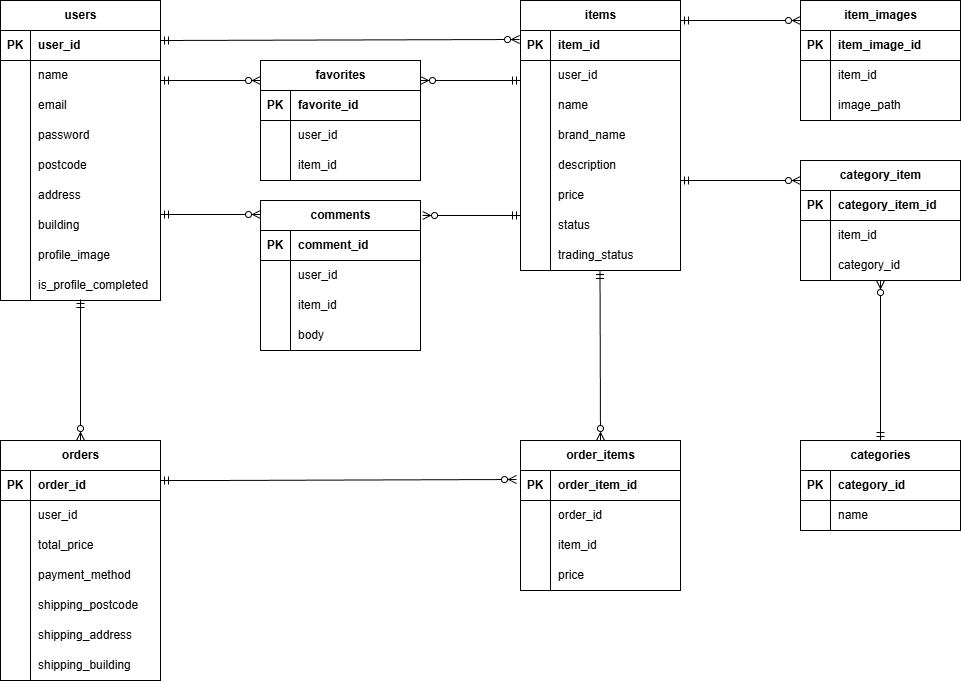
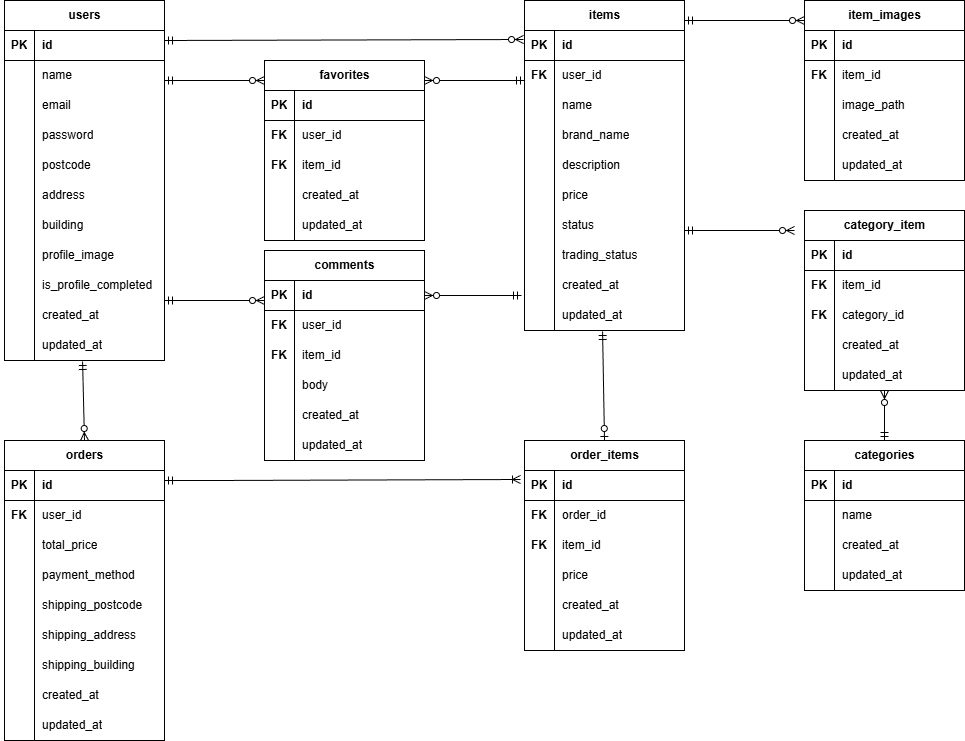
READMEとER図の修正

diff --git a/src/public/css/common.css b/src/public/css/common.css
@@ -38,6 +38,10 @@
     height: 40px;
 }
 
+.search-form__item-input::placeholder {
+    padding-left: 20px;
+}
+
 .header-nav {
     display: flex;
     align-items: center;
@@ -45,6 +49,10 @@
     list-style: none;
     margin: 0;
     gap: 20px;
+}
+
+.header-nav__logout-form {
+    margin: 0;
 }
 
 .header-nav__logout-button {
@@ -63,14 +71,24 @@
     cursor: pointer;
 }
 
-.header-nav__listing-button {
-    padding: 2px 10px;
+.header-nav__listing-link {
+    display: inline-block;
+    padding: 5px 20px;
+    border: none;
+    text-decoration: none;
+    background-color: #ffffff;
+    border-radius: 2px;
+    color: #000;
     font-size: 16px;
     cursor: pointer;
 }
 
 .header-nav__logout-button,
 .header-nav__link,
-.header-nav__listing-button {
+.header-nav__listing-link {
     white-space: nowrap;
+}
+
+main {
+    padding-bottom: 50px;
 }

diff --git a/src/public/css/edit.css b/src/public/css/edit.css
@@ -33,9 +33,20 @@
 .icon-preview {
     width: 100px;
     height: 100px;
-    object-fit: cover;
     border-radius: 50%;
     background-color: #d9d9d9;
+    overflow: hidden;
+    /* 下記は画像ではなく文字等を表示させたい場合に中央に置くための記述 */
+    display: flex;
+    align-items: center;
+    justify-content: center;
+}
+
+.circle-image {
+    width: 100%;
+    height: 100%;
+    object-fit: cover;
+    border-radius: 50%;
 }
 
 .form__file-button {

diff --git a/src/resources/views/mypage/edit.blade.php b/src/resources/views/mypage/edit.blade.php
@@ -6,28 +6,29 @@
 
 @section('nav')
 <div class="header__search">
-    <input class="search-form__item-input" type="text" name="keyword" value="{{ old('keyword') }}">
+    <input class="search-form__item-input" type="text" name="keyword" value="{{ old('keyword') }} placeholder="なにをお探しですか？"">
 </div>
 
 <nav class="header__nav-group">
     <ul class="header-nav">
         @if (Auth::check())
             <li class="header-nav__item">
-                <form action="/logout" method="post">
+                <form class="header-nav__logout-form" action="/logout" method="post">
                     @csrf
                     <button class="header-nav__logout-button" type="submit">ログアウト</button>
                 </form>
             </li>
+        @else
+            <li class="header-nav__item">
+                <a class="header-nav__link" href="/login">ログイン</a>
+            </li>
+        @endif
             <li class="header-nav__item">
                 <a class="header-nav__link" href="/mypage">マイページ</a>
             </li>
             <li class="header-nav__item">
-                <form action="出品" method="post">
-                    @csrf
-                    <button class="header-nav__listing-button">出品</button>
-                </form>
+                    <a class="header-nav__listing-link">出品</a>
             </li>
-        @endif
     </ul>
 </nav>
 @endsection
@@ -41,25 +42,35 @@
 
     <form class="edit__form" action="/mypage/update" enctype="multipart/form-data" method="post" novalidate>
         @csrf
+        @method('PATCH')
 
         {{-- 「選択した瞬間に円形のプレビューを表示させたい」場合は、JavaScriptが必要 --}}
         <div class="form__group">
             <div class="form__item-flex">
-                <div class="icon-preview">
+                {{-- <div class="icon-preview">
                     @if(Auth::user()->profile_image)
-                        <img class="circle-image" src="{{ asset('storage/profile_images/' . Auth::user()->profile_image) }}">
+                        <img id="preview" class="circle-image" src="{{ asset('storage/profile_images/' . Auth::user()->profile_image) }}">
                     @else
+                        <img id="preview" class="circle-image" style="display: none;">
                         <div class="no-image-circle"></div>
+                    @endif
+                </div> --}}
+                <div class="icon-preview">
+                    <img id="preview" class="circle-image"
+                        src="{{ Auth::user()->profile_image ? asset('storage/' . Auth::user()->profile_image) : '' }}"
+                        style="{{ Auth::user()->profile_image ? '' : 'display: none;' }}">
+                    @if(!Auth::user()->profile_image)
+                        <div id="no-image" class="no-image-circle"></div>
                     @endif
                 </div>
                 <label class="form__label">
                     <span class="form__file-button">画像を選択する</span>
-                    <input class="form__input--file" type="file" accept="image/*" name="profile_image" />
+                    <input id="image-input" class="form__input--file" type="file" accept="image/*" name="profile_image" />
                 </label>
             </div>
             <div class="form__error">
                 @error('profile_image')
-                    <p class="error">{{ $message }}</p>
+                    <p class="form__error-text">{{ $message }}</p>
                 @enderror
             </div>
         </div>
@@ -67,7 +78,7 @@
         <div class="form__group">
             <label class="form__label">
                 <span class="label-text">ユーザー名</span>
-                <input class="form__input" type="text" name="name" value="{{ old('name') }}" />
+                <input class="form__input" type="text" name="name" value="{{ old('name', $user->name) }}" />
             </label>
             <div class="form__error">
                 @error('name')
@@ -79,7 +90,7 @@
         <div class="form__group">
             <label class="form__label">
                 <span class="label-text">郵便番号</span>
-                <input class="form__input" type="text" name="postcode" value="{{ old('postcode') }}" inputmode="numeric" />
+                <input class="form__input" type="text" name="postcode" value="{{ old('postcode', $user->postcode) }}" inputmode="numeric" />
             </label>
             <div class="form__error">
                 @error('postcode')
@@ -91,7 +102,7 @@
         <div class="form__group">
             <label class="form__label">
                 <span class="label-text">住所</span>
-                <input class="form__input" type="text" name="address" value="{{ old('address') }}" />
+                <input class="form__input" type="text" name="address" value="{{ old('address', $user->address) }}" />
             </label>
             <div class="form__error">
                 @error('address')
@@ -103,7 +114,7 @@
         <div class="form__group">
             <label class="form__label">
                 <span class="label-text">建物名</span>
-                <input class="form__input" type="text" name="building" value="{{ old('building') }}" />
+                <input class="form__input" type="text" name="building" value="{{ old('building', $user->building) }}" />
             </label>
             <div class="form__error">
                 @error('building')
@@ -119,3 +130,26 @@
 
 </div>
 @endsection
+
+<script>
+document.addEventListener('DOMContentLoaded', function() {
+    const input = document.getElementById('image-input');
+    if (!input) return;
+
+    input.addEventListener('change', function(e) {
+        const file = e.target.files[0];
+        const preview = document.getElementById('preview');
+        const noImage = document.getElementById('no-image');
+
+        if (file) {
+            const reader = new FileReader();
+            reader.onload = function(e) {
+                preview.src = e.target.result;
+                preview.style.display = 'block';
+                if (noImage) noImage.style.display = 'none';
+            }
+            reader.readAsDataURL(file);
+        }
+    });
+});
+</script>

diff --git a/src/resources/views/index.blade.php b/src/resources/views/index.blade.php
@@ -1,2 +1,34 @@
 @extends('layouts.app')
-<p>index</p>
+
+@section('css')
+
+@endsection
+
+@section('nav')
+<div class="header__search">
+    <input class="search-form__item-input" type="text" name="keyword" value="{{ old('keyword') }}" placeholder="なにをお探しですか？">
+</div>
+
+<nav class="header__nav-group">
+    <ul class="header-nav">
+        @if (Auth::check())
+            <li class="header-nav__item">
+                <form class="header-nav__logout-form" action="/logout" method="post">
+                    @csrf
+                    <button class="header-nav__logout-button" type="submit">ログアウト</button>
+                </form>
+            </li>
+        @else
+            <li class="header-nav__item">
+                <a class="header-nav__link" href="/login">ログイン</a>
+            </li>
+        @endif
+            <li class="header-nav__item">
+                <a class="header-nav__link" href="/mypage">マイページ</a>
+            </li>
+            <li class="header-nav__item">
+                    <a class="header-nav__listing-link">出品</a>
+            </li>
+    </ul>
+</nav>
+@endsection

diff --git a/src/app/Http/Requests/ProfileRequest.php b/src/app/Http/Requests/ProfileRequest.php
@@ -24,7 +24,7 @@ class ProfileRequest extends FormRequest
     public function rules()
     {
         return [
-            'profile_image' => ['nullable', 'image', 'mimes:jpeg,png'],
+            'profile_image' => ['nullable', 'mimes:jpeg,png', 'image'],
             'name'          => ['required', 'string', 'max:20'],
             'postcode'      => ['required', 'string', 'regex:/^\d{3}-\d{4}$/'],
             'address'       => ['required', 'string', 'max:255'],
@@ -35,13 +35,13 @@ class ProfileRequest extends FormRequest
     public function messages()
     {
         return [
+            'profile_image.mimes' => '画像の形式はJPEGまたはPNGのみ対応しています',
             'profile_image.image' => '指定されたファイルが画像ではありません',
-            'profile_image.mimes' => '画像の形式はJPEGまたはPNGのみ対応しています。',
-            'name.required' => 'お名前を入力してください。',
+            'name.required' => 'お名前を入力してください',
             'name.max' => 'ユーザー名は20文字以内で入力してください',
-            'postcode.required' => '郵便番号を入力してください。',
-            'postcode.regex'     => '郵便番号はハイフンを含めた8文字で入力してください。',
-            'address.required' => '住所を入力してください。',
+            'postcode.required' => '郵便番号を入力してください',
+            'postcode.regex'     => '郵便番号はハイフンを含めた8文字で入力してください',
+            'address.required' => '住所を入力してください',
         ];
     }
 }

diff --git a/src/routes/web.php b/src/routes/web.php
@@ -20,6 +20,7 @@ Route::get('/', [ProfileEditController::class, 'index'])->middleware('check.prof
 
 Route::middleware(['auth'])->group(function () {
     Route::get('/mypage/profile', [ProfileEditController::class, 'edit']);
+    Route::patch('/mypage/update', [ProfileEditController::class, 'update']);
 
     Route::middleware(['check.profile'])->group(function () {
         Route::get('/mypage', [ProfileEditController::class, '/mypage/edit']);